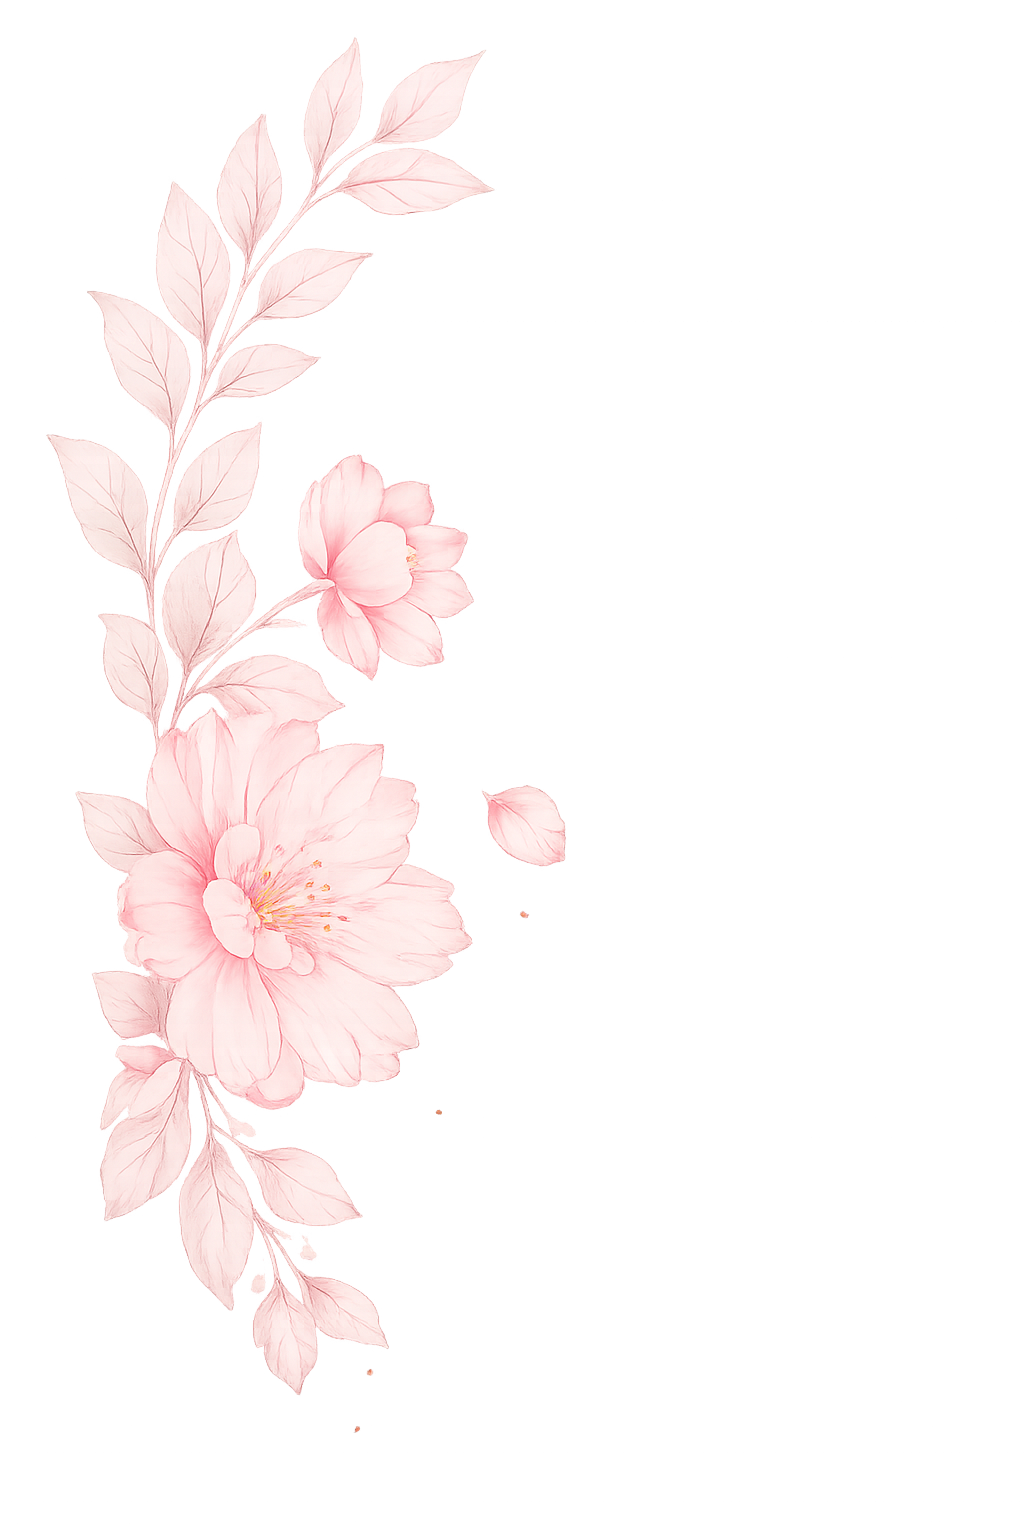
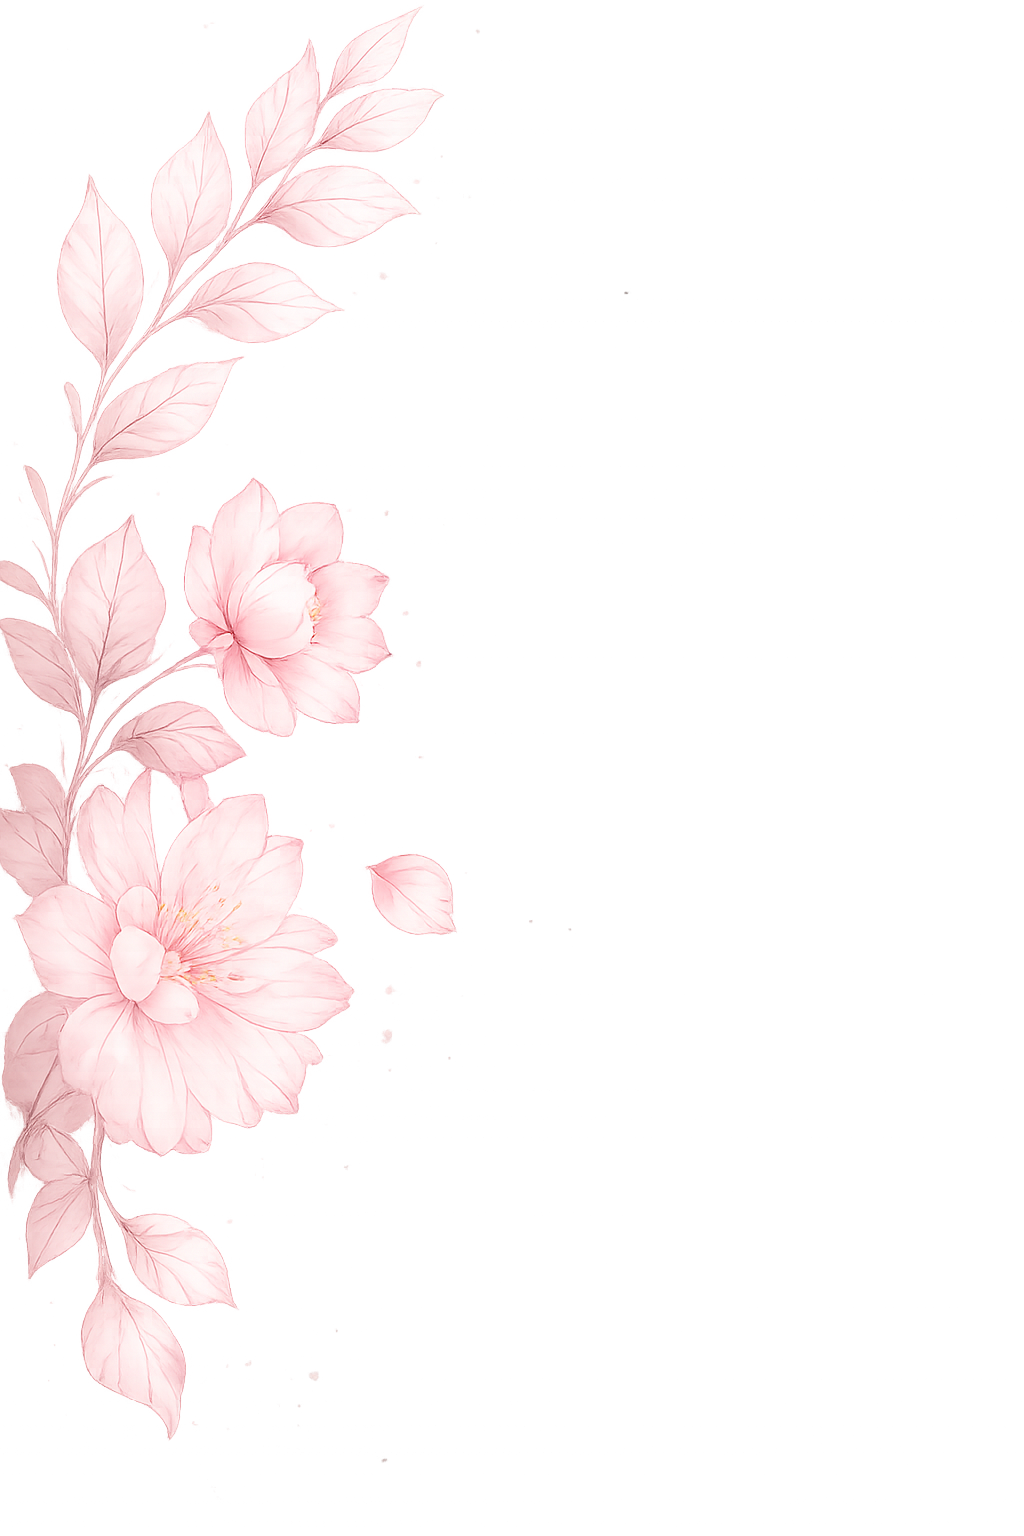
Add new images and update styles for HeroSection and globals

Changed region(s): [[0.0, 0.0312, 0.4688, 0.9375], [0.4688, 0.5, 0.5625, 0.5625], [0.4375, 0.0312, 0.4688, 0.0625]]

diff --git a/src/components/HeroSection.tsx b/src/components/HeroSection.tsx
@@ -42,7 +42,7 @@ const heroBadges = [
 
 export default function HeroSection() {
   return (
-    <section className="relative overflow-hidden bg-[#FFF2F6] min-h-[460px] lg:min-h-[500px]">
+    <section className="relative overflow-visible bg-[#FFF2F6] min-h-[280px] sm:min-h-[300px] lg:min-h-[330px]">
       {/* Absolute background graphics */}
       {/* Left Floral Line Drawing Sketch */}
       <div className="absolute left-0 top-0 bottom-0 w-1/3 pointer-events-none select-none opacity-80 mix-blend-multiply hidden md:block">
@@ -80,24 +80,26 @@ export default function HeroSection() {
         </svg>
       </div>
 
-      <div className="max-w-7xl mx-auto px-4 sm:px-6 lg:px-8 relative z-10">
-        <div className="grid lg:grid-cols-2 gap-8 items-center pt-8 lg:pt-12">
+      <div className="max-w-7xl mx-auto px-4 sm:px-6 lg:px-8 xl:px-32 relative z-10">
+        <div className="grid lg:grid-cols-2 gap-8 items-center pt-6 sm:pt-8 lg:pt-8">
           {/* Left content */}
           <div className="animate-fade-in-up">
             <p className="font-sans text-[11px] font-bold tracking-[0.25em] text-[#4A4A4A] uppercase mb-4">
               CUSTOM BLOUSE DESIGNS
             </p>
-            <h1 className="font-sans font-bold text-4xl sm:text-5xl lg:text-[56px] text-text-dark leading-[1.1] mb-5">
+            <h1 className="font-serif font-normal text-4xl sm:text-5xl lg:text-[56px] text-black leading-[1.1] mb-5">
               Made for You.
               <br />
-              <span className="text-primary font-sans font-bold">Perfectly Yours.</span>
+              <span className="font-bodoni  text-primary">Perfectly Yours.</span>
             </h1>
 
             {/* Heart Divider Line */}
             <div className="flex items-center gap-3 my-5">
-              <div className="h-[1px] w-24 bg-[#E8CFDC]" />
-              <span className="text-[#C2185B] text-xs">♥</span>
-              <div className="h-[1px] w-24 bg-[#E8CFDC]" />
+              <div className="h-[1px] w-28 bg-[#C5A25D]" />
+              <svg className="w-3.5 h-3.5 fill-[#C5A25D]" viewBox="0 0 24 24">
+                <path d="M12 21.35l-1.45-1.32C5.4 15.36 2 12.28 2 8.5 2 5.42 4.42 3 7.5 3c1.74 0 3.41.81 4.5 2.09C13.09 3.81 14.76 3 16.5 3 19.58 3 22 5.42 22 8.5c0 3.78-3.4 6.86-8.55 11.54L12 21.35z" />
+              </svg>
+              <div className="h-[1px] w-28 bg-[#C5A25D]" />
             </div>
 
             <p className="font-sans text-sm sm:text-base text-[#4A4A4A] leading-relaxed mb-8 max-w-sm">
@@ -119,7 +121,7 @@ export default function HeroSection() {
             <img
               src="/images/hero-model.png"
               alt="Model showcasing back of a custom-designed pink embroidered blouse"
-              className="w-auto h-[400px] sm:h-[450px] lg:h-[480px] object-contain select-none pointer-events-none"
+              className="w-auto h-[430px] sm:h-[480px] lg:h-[520px] xl:h-[560px] object-contain select-none pointer-events-none"
             />
           </div>
         </div>

diff --git a/src/app/layout.tsx b/src/app/layout.tsx
@@ -1,5 +1,5 @@
 import type { Metadata } from "next";
-import { Poppins, Inter, Playfair_Display } from "next/font/google";
+import { Poppins, Inter, Playfair_Display, Bodoni_Moda } from "next/font/google";
 import "./globals.css";
 
 const poppins = Poppins({
@@ -13,6 +13,13 @@ const playfair = Playfair_Display({
   variable: "--font-playfair",
   subsets: ["latin"],
   weight: ["400", "500", "600", "700", "800"],
+  display: "swap",
+});
+
+const bodoni = Bodoni_Moda({
+  variable: "--font-bodoni-moda",
+  subsets: ["latin"],
+  style: ["normal", "italic"],
   display: "swap",
 });
 
@@ -43,7 +50,7 @@ export default function RootLayout({
   children: React.ReactNode;
 }>) {
   return (
-    <html lang="en" className={`${poppins.variable} ${playfair.variable} ${inter.variable}`}>
+    <html lang="en" className={`${poppins.variable} ${playfair.variable} ${inter.variable} ${bodoni.variable}`}>
       <body className="min-h-screen flex flex-col antialiased">
         {children}
       </body>

diff --git a/src/app/globals.css b/src/app/globals.css
@@ -20,6 +20,7 @@
   --font-sans: var(--font-poppins), ui-sans-serif, system-ui, sans-serif;
   --font-body: var(--font-inter), ui-sans-serif, system-ui, sans-serif;
   --font-serif: var(--font-playfair), Georgia, Cambria, "Times New Roman", Times, serif;
+  --font-bodoni: var(--font-bodoni-moda), Georgia, Cambria, "Times New Roman", Times, serif;
 }
 
 /* Base Styles */